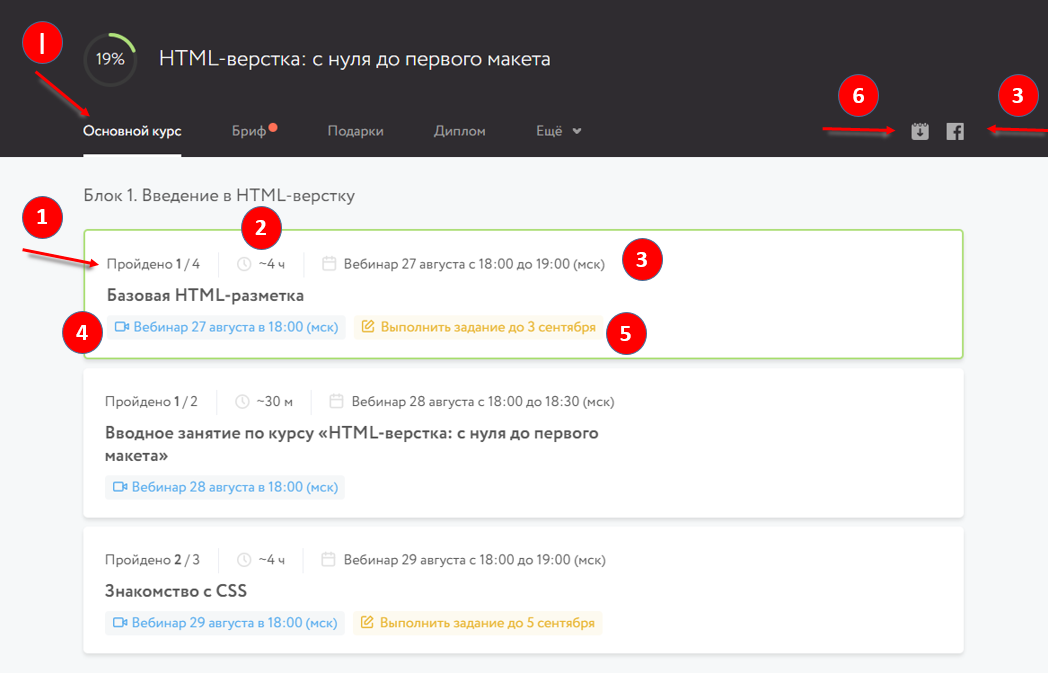
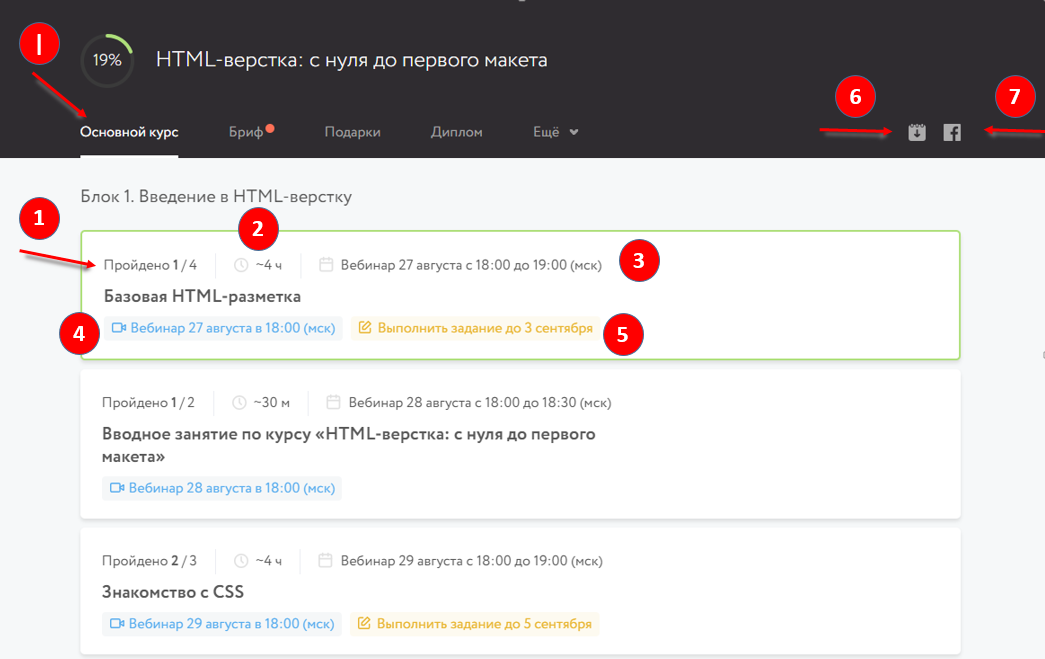
account navigation text changes

diff --git a/account/README.md b/account/README.md
@@ -30,11 +30,14 @@
 3. Выбираете интересующий курс, например, «HTML-вёрстка: с нуля до первого макета».
 
 ## **ОСНОВНОЙ КУРС (I)**
-Список занятий в этом курсе. По каждому занятию есть информация о преподавателе, ведущем лекцию (1), дате и времени его проведения (2), а также срок выполнения домашнего задания (3) и срок доступа к видеозаписи лекции (4).
+Список занятий в этом курсе. По каждому занятию есть информация о количестве подзадач и сколько из них пройдено (1), примерное время продолжительности вебинара (2), дата и время начала вебинара (3), ссылка на трансляцию* или запись пройденного вебинара (4).
 
-В день лекции, до ее начала, появляется ссылка на прямую трансляцию: **ССЫЛКА НА ЗАНЯТИЕ**. После лекции через некоторое время (примерно через 2 часа после её окончания) будет доступна ссылка на видеозапись: **ПОСМОТРЕТЬ ЗАПИСЬ (5)**. По ссылке **МАТЕРИАЛЫ** доступна презентация лекции (6).
+ *После лекции через некоторое время (примерно через 2 часа после её окончания) будет доступна видеозапись.
 
-На некоторых курсах нужно пройти промежуточные тесты. Они доступны по ссылке **ТЕСТ.** По ссылке **ВЫПОЛНИТЬ ЗАДАНИЕ (7)** вы попадаете на вкладку домашних заданий. При желании можно получить файл расписания всех занятий курса (8), чтобы добавить его в Google Calendar, MS Outlook или любое другое приложение-календарь поддерживающее формат ics.
+На некоторых курсах нужно пройти промежуточные тесты.* По ссылке **ВЫПОЛНИТЬ ЗАДАНИЕ (5)** вы попадаете на вкладку домашних заданий. 
+
+При желании можно получить файл ics с расписанием всех занятий курса (6), чтобы добавить его в Google Calendar, MS Outlook или любое другое приложение-календарь поддерживающее формат ics.
+Если вы еще не состоите закрутой группе курса в Facebook, можно присоединиться кликнув на иконку (7).
 
 ![Навигация по кабинету](../img/account-navigation.png)
 
